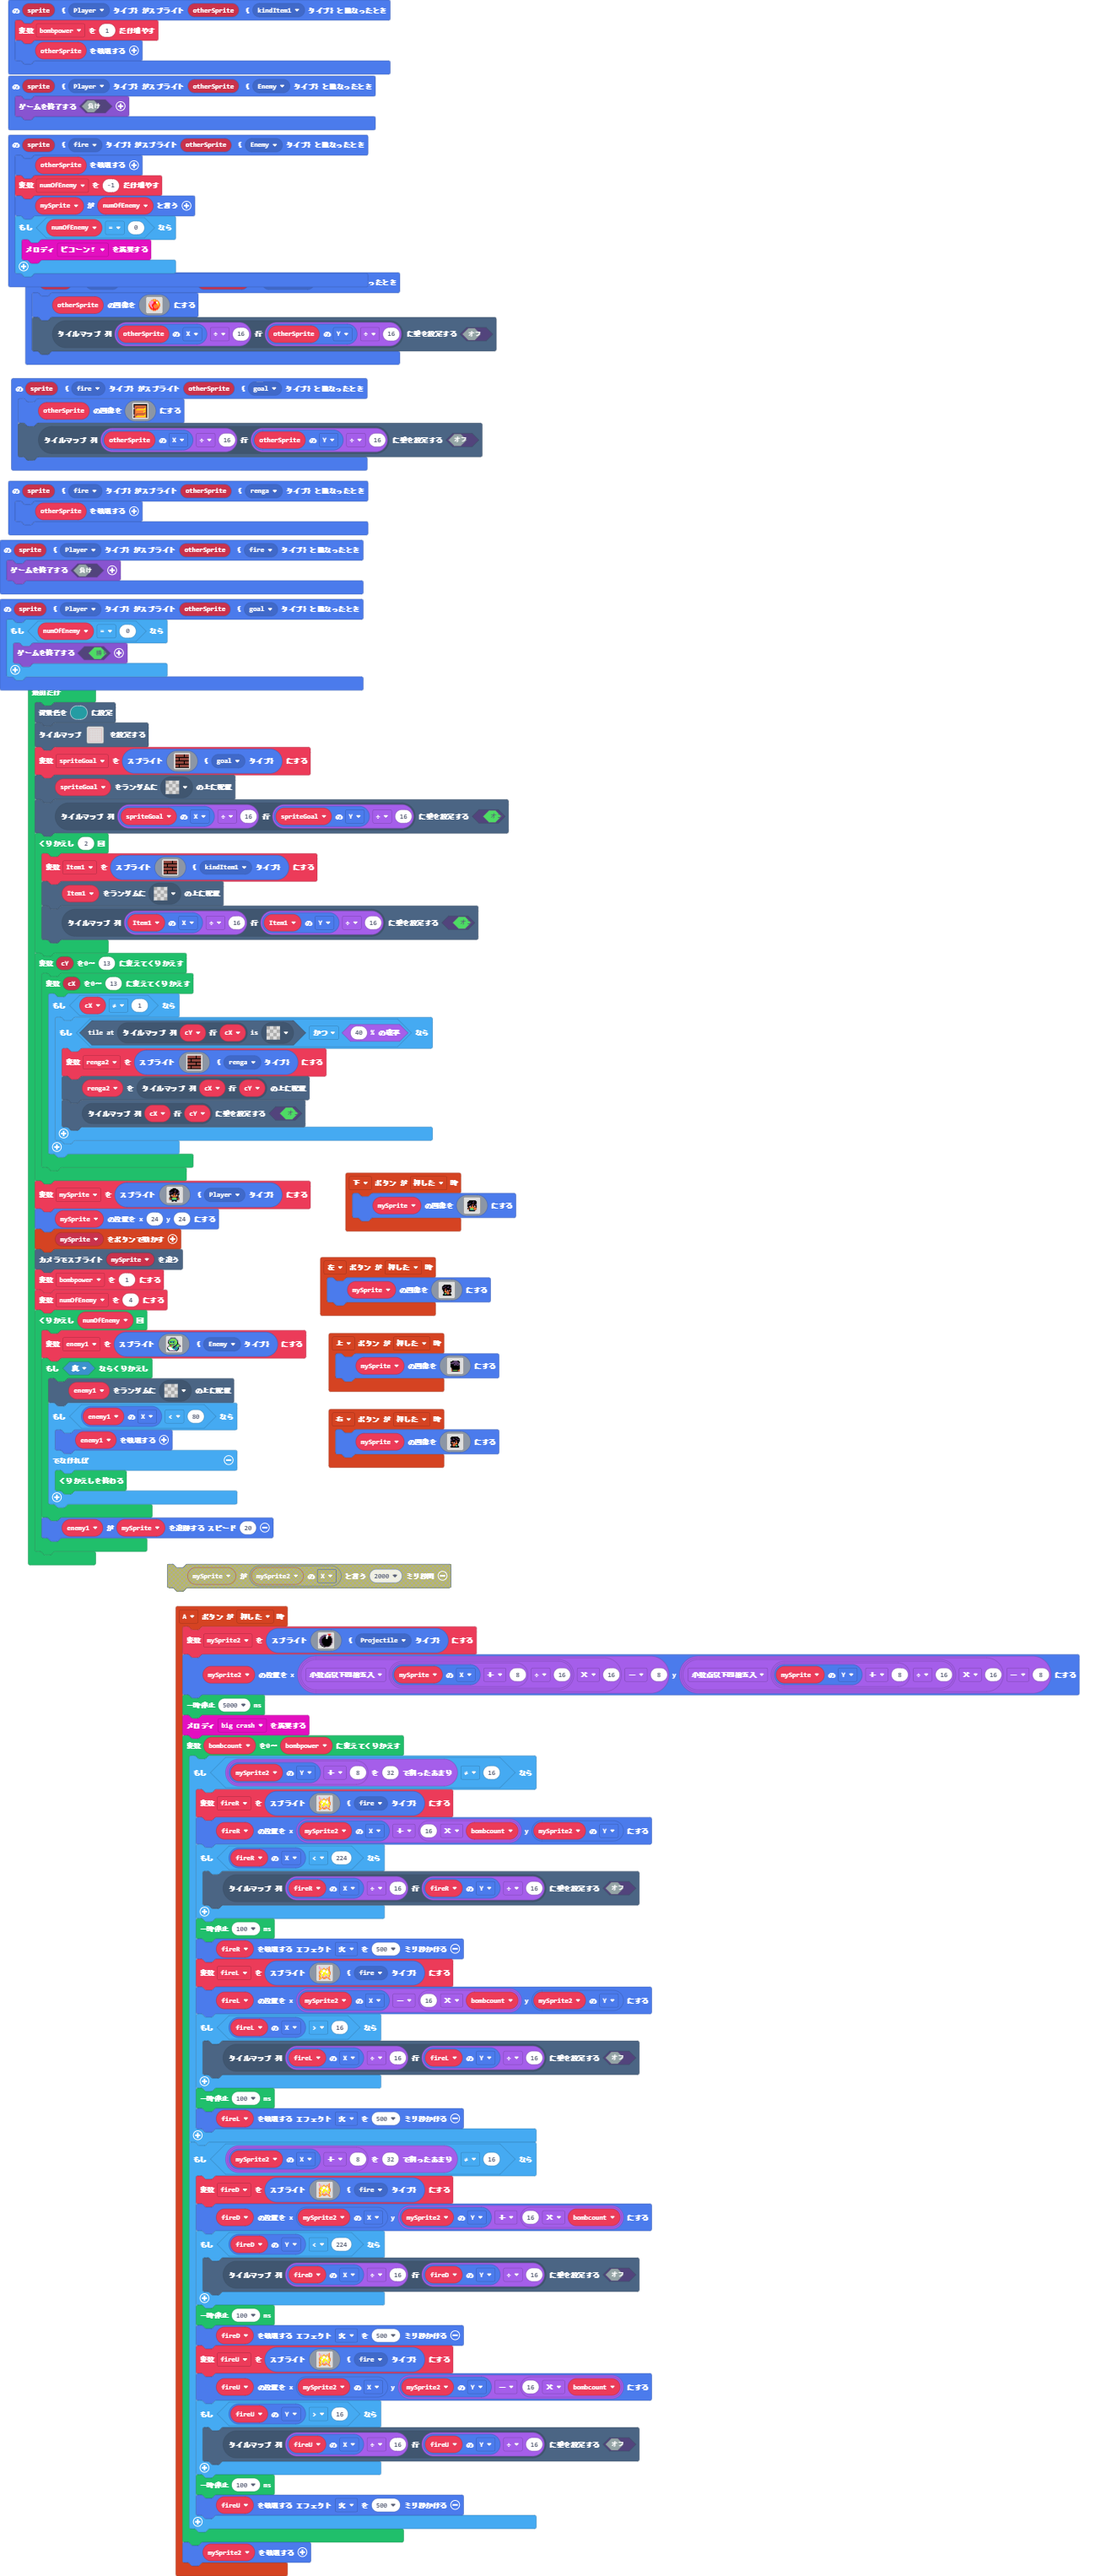
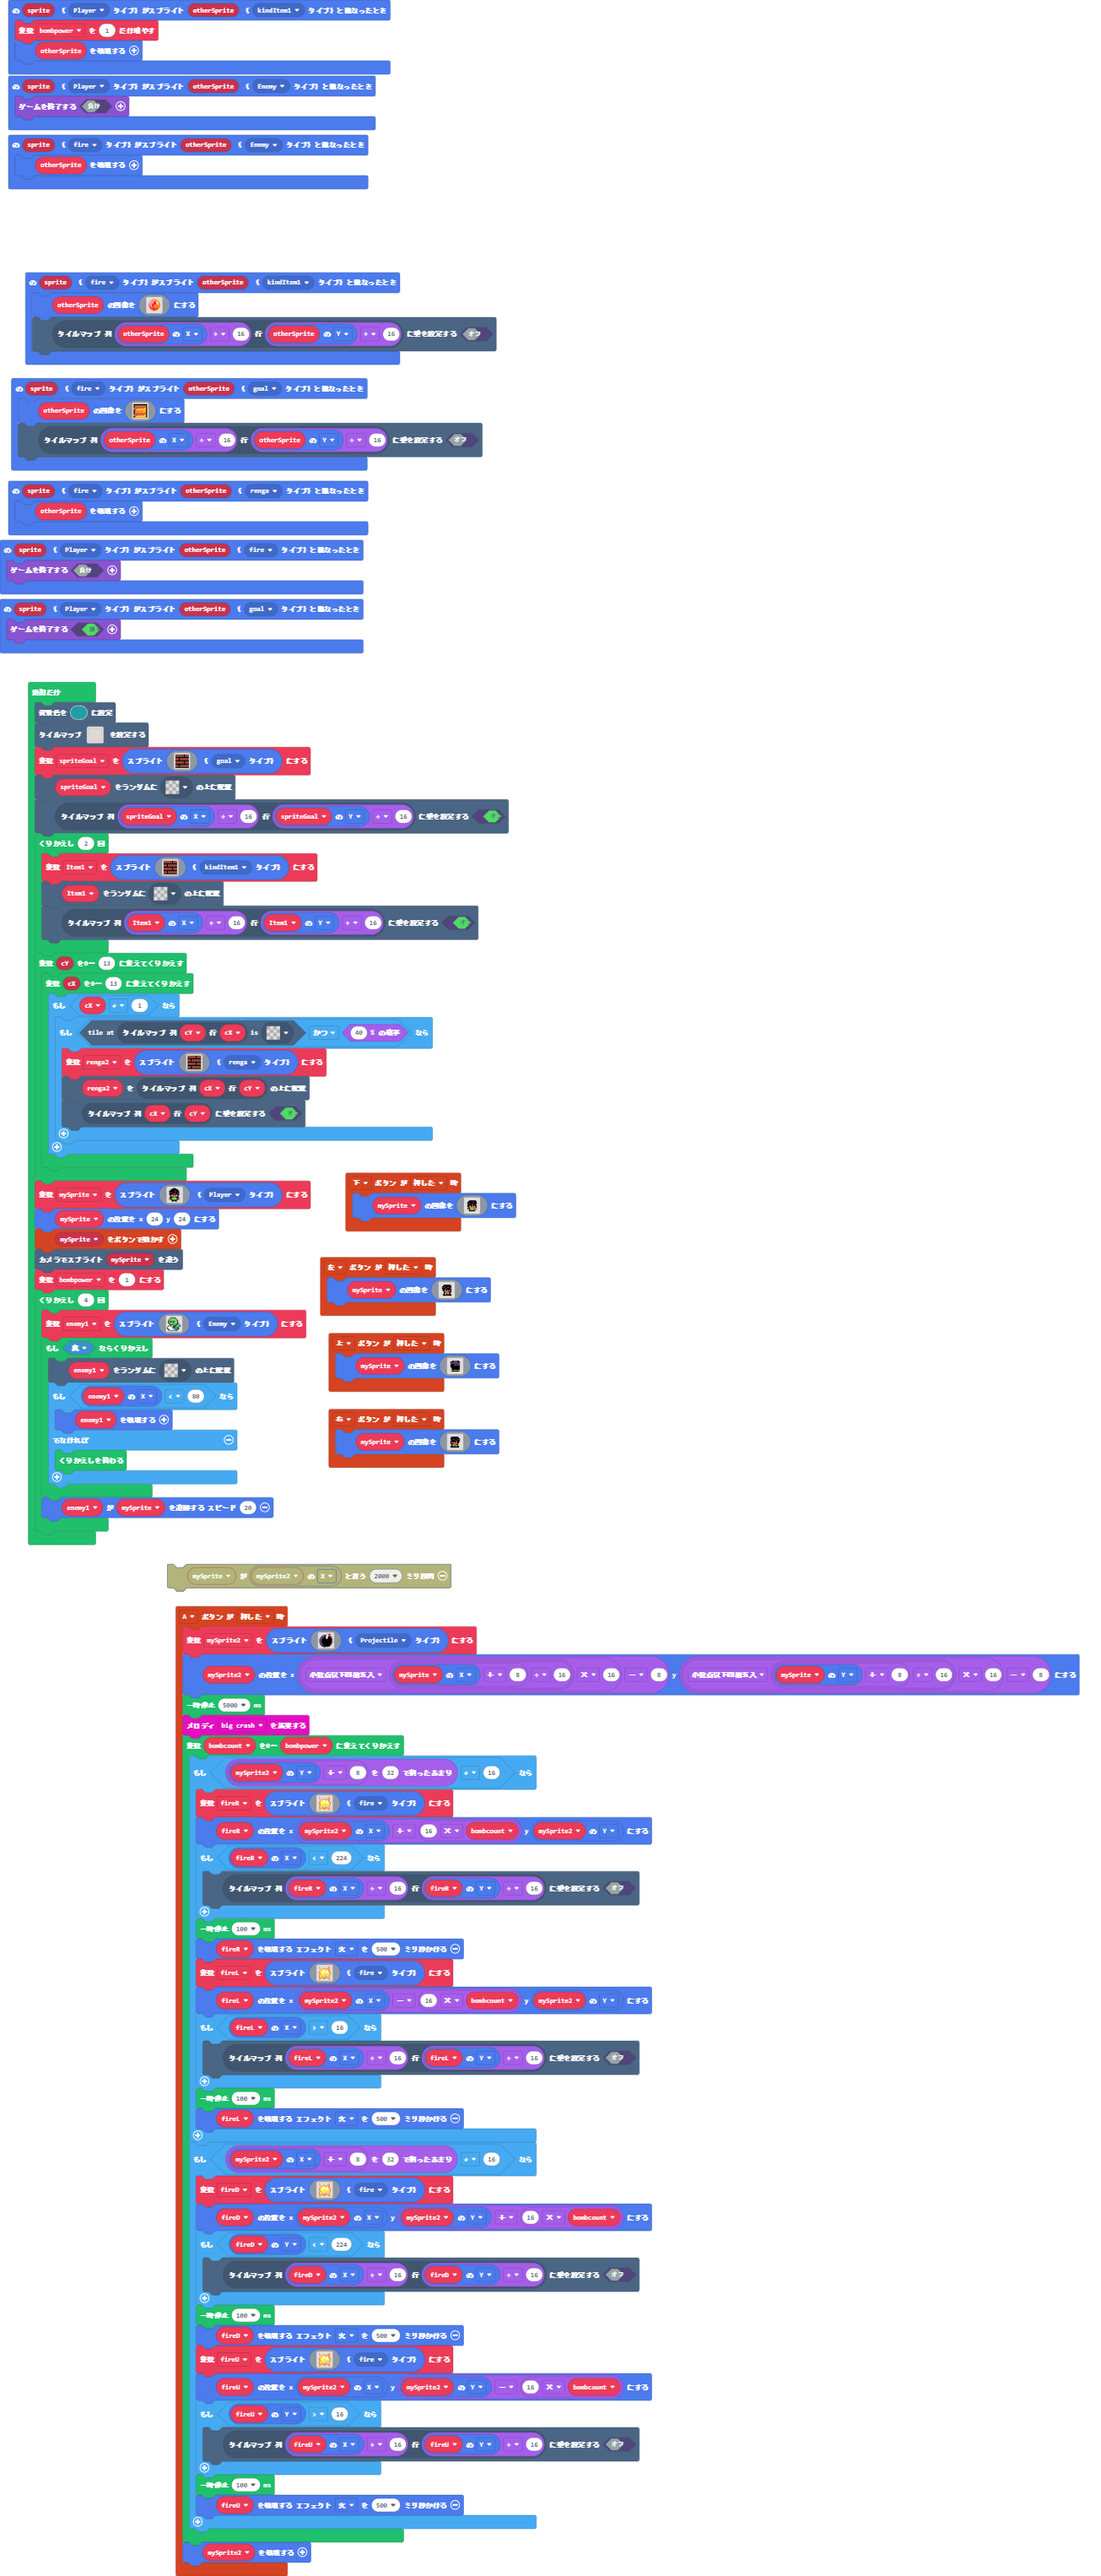
更新 main.blocks, main.ts

Changed region(s): [[0.0307, 0.498, 0.2759, 0.6225], [0.0, 0.0623, 0.3372, 0.1245], [0.0, 0.2179, 0.3372, 0.2801]]

diff --git a/main.ts b/main.ts
@@ -53,11 +53,6 @@ sprites.onOverlap(SpriteKind.fire, SpriteKind.goal, function (sprite, otherSprit
 })
 sprites.onOverlap(SpriteKind.fire, SpriteKind.Enemy, function (sprite, otherSprite) {
     otherSprite.destroy()
-    numOfEnemy += -1
-    mySprite.say(numOfEnemy)
-    if (numOfEnemy == 0) {
-        music.baDing.play()
-    }
 })
 sprites.onOverlap(SpriteKind.fire, SpriteKind.renga, function (sprite, otherSprite) {
     otherSprite.destroy()
@@ -127,9 +122,7 @@ controller.left.onEvent(ControllerButtonEvent.Pressed, function () {
         `)
 })
 sprites.onOverlap(SpriteKind.Player, SpriteKind.goal, function (sprite, otherSprite) {
-    if (numOfEnemy == 0) {
-        game.over(true)
-    }
+    game.over(true)
 })
 controller.up.onEvent(ControllerButtonEvent.Pressed, function () {
     mySprite.setImage(img`
@@ -286,7 +279,6 @@ let fireL: Sprite = null
 let fireR: Sprite = null
 let mySprite2: Sprite = null
 let enemy1: Sprite = null
-let numOfEnemy = 0
 let bombpower = 0
 let mySprite: Sprite = null
 let renga2: Sprite = null
@@ -385,8 +377,7 @@ mySprite.setPosition(24, 24)
 controller.moveSprite(mySprite)
 scene.cameraFollowSprite(mySprite)
 bombpower = 1
-numOfEnemy = 4
-for (let index = 0; index < numOfEnemy; index++) {
+for (let index = 0; index < 4; index++) {
     enemy1 = sprites.create(img`
         . . . . c c c c c c . . . . . . 
         . . . c 6 7 7 7 7 6 c . . . . . 
